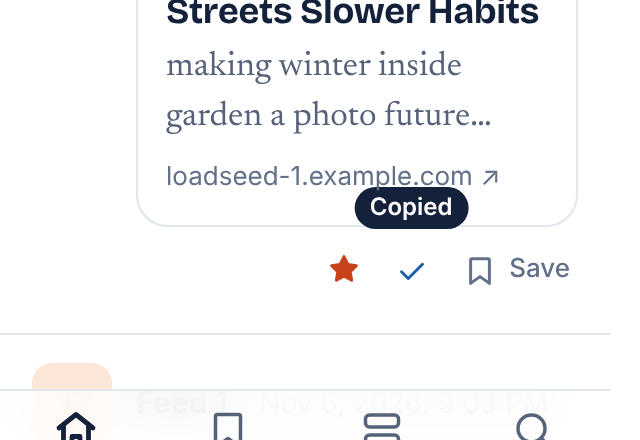
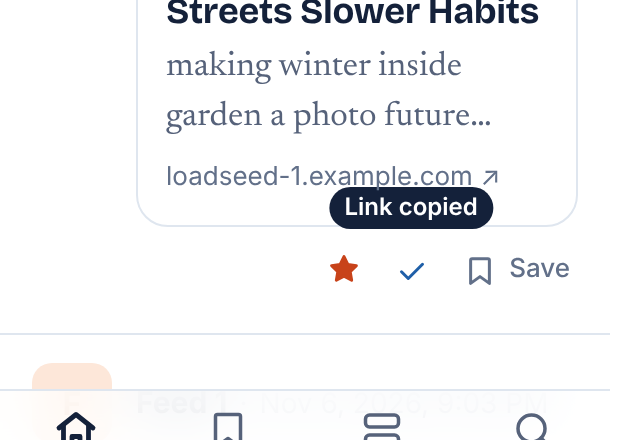
Share: "Link copied" that stays while you're on it, per the checkpoint
The owner picked the refined pill (A′) at the design checkpoint, over
status text beside the row (it lands on "Also in" on phones) and the
button turning into a labelled "Copied" (it shoves Star aside and
squeezes "Also in" at 320 px).

- The label says "Link copied", since the button says Share.
- A success stays 2 s, longer while a mouse is over the button or it
  has keyboard focus (until the next key); a touch press never holds it,
  even on a device that can also hover. A failure stays until the next
  press or key, so it never times out before it's read (WCAG 2.2.1).
- The button only appears where a share sheet or the Clipboard API can
  work.

Records the look in decisions.md, and the action buttons' touch spacing
in backlog.md. The checkpoint's media are replaced with the final
design's, and the options comparison.

Changed region(s): [[0.5, 0.4136, 0.7812, 0.5318]]

diff --git a/internal/ui/static/js/app.js b/internal/ui/static/js/app.js
@@ -100,12 +100,16 @@
   });
 
   // Share buttons: button[data-share-url] (the share-button partial) is
-  // rendered hidden, since it needs JavaScript; show it. On click, open the
-  // share sheet with data-share-title and the URL where there is one, else
-  // copy the URL, show it with showCopied and announce it, in the page's
-  // polite live region (announce, also used by live search). Takes a root so
-  // rows added to the page later can be enhanced too; the click is delegated.
+  // rendered hidden, since it needs JavaScript; show it where it can work
+  // (a share sheet or the Clipboard API, which needs a secure context). On
+  // click, open the share sheet with data-share-title and the URL where there
+  // is one, else copy the URL, show the outcome with showCopied and announce
+  // it, in the page's polite live region (announce, also used by live
+  // search). Takes a root so rows added to the page later can be enhanced
+  // too; the click is delegated.
+  const canShare = Boolean(navigator.share || navigator.clipboard?.writeText);
   const enhanceShare = (root) => {
+    if (!canShare) return;
     for (const b of root.querySelectorAll("button[data-share-url]")) b.hidden = false;
   };
   enhanceShare(document);
@@ -121,22 +125,50 @@
     liveStatus.textContent = "";
     setTimeout(() => { liveStatus.textContent = msg; }, 50);
   };
-  // showCopied shows a copy's outcome on its button for 2 seconds: the
-  // button's .copied-label (aria-hidden, since announce says it) reads
-  // "Copied" or "Couldn't copy", and data-copied (main.css swaps the icon for
-  // a check that draws itself) or data-copy-failed shows it. A second copy
-  // restarts the timer. The label keeps its text after, so it fades out
-  // with it.
+  // showCopied shows a copy's outcome on its button: its .copied-label
+  // (aria-hidden, since announce says it) reads "Link copied" or "Couldn't
+  // copy", shown by data-copied (main.css also swaps the icon for a check
+  // that draws itself) or data-copy-failed. A success shows for 2 seconds,
+  // and longer while a mouse is over the button (until it leaves) or it has
+  // keyboard focus (until the next key or focus moves); a failure stays
+  // until the reader's next press or key, so it never times out before it's
+  // read. A second copy restarts the time (the pill and check don't replay).
+  // The label keeps its text when it hides, so it fades out with it.
+  // lastPointer is the type of the latest press, since a touch leaves :hover
+  // on what it tapped, even on a device that also has a mouse.
+  let lastPointer = "";
+  document.addEventListener("pointerdown", (e) => { lastPointer = e.pointerType; }, { capture: true });
   const showCopied = (button, ok) => {
+    button.hideCopied?.();
     const label = button.querySelector(".copied-label");
-    if (label) label.textContent = ok ? "Copied" : "Couldn't copy";
-    delete button.dataset.copied;
-    delete button.dataset.copyFailed;
+    if (label) label.textContent = ok ? "Link copied" : "Couldn't copy";
     button.dataset[ok ? "copied" : "copyFailed"] = "";
-    clearTimeout(button.copiedTimer);
-    button.copiedTimer = setTimeout(() => {
+    const done = new AbortController();
+    const { signal } = done;
+    let timer;
+    const hide = () => {
+      clearTimeout(timer);
+      done.abort();
       delete button.dataset.copied;
       delete button.dataset.copyFailed;
+      delete button.hideCopied;
+    };
+    button.hideCopied = hide;
+    if (!ok) {
+      for (const type of ["pointerdown", "keydown"]) document.addEventListener(type, hide, { signal, capture: true });
+      return;
+    }
+    const hovered = () => lastPointer === "mouse" && button.matches(":hover");
+    const focused = () => button.matches(":focus-visible");
+    timer = setTimeout(() => {
+      if (hovered()) {
+        button.addEventListener("pointerleave", hide, { signal });
+      } else if (focused()) {
+        button.addEventListener("blur", hide, { signal });
+        document.addEventListener("keydown", hide, { signal, capture: true });
+      } else {
+        hide();
+      }
     }, 2000);
   };
   document.addEventListener("click", async (e) => {

diff --git a/docs/decisions.md b/docs/decisions.md
@@ -379,6 +379,7 @@ Planned in #395 (issue #396).
   Articles without a usable URL have no Share button.
 - **The system share sheet where there is one, else copy the link** (the link alone, so it pastes cleanly).
 - **It needs JavaScript, so without it there's no button**, rather than a button that does nothing; "Read on" and the browser's own share remain.
+  For the same reason a browser with neither a share sheet nor the Clipboard API (which needs a secure context) gets no button either (#511).
 - **An icon-only button between Star and Save**, as "Saved articles" planned.
 - **Nothing about sharing is recorded**: no counts, no request to the server.
 
@@ -685,6 +686,11 @@ Each piece's look (its timing, curve and effect) is recorded here once the owner
   Once a `204` turns Star on, the filled star scales from 0.4 on `--ease-spring` over `--duration-flourish` (to about 1.1, then 1), with a burst of five dots in `--brand-strong` at its points that travel 4 px outward, fading and shrinking, over 400 ms on `--ease-out` from 60 ms in.
   Turning Save on drops the bookmark 3 px into place over `--duration-base` on `--ease-out`, with no overshoot or burst, since saving is frequent.
   Turning either off doesn't animate, so only the reader's own change is marked.
+- **Share's copy feedback** (#511; the owner's pick at its design checkpoint, #533, from four options): where there's no share sheet, a pill in the inverse colors appears 6 px above the button, over whatever is there, so nothing in the row moves, and on success the check draws itself in place of the share icon.
+  It says "Link copied", not "Copied", since the button says Share and the words say what it did; a failure says "Couldn't copy" and keeps the share icon.
+  It fades in and rises 4 px over `--duration-base` on `--ease-out` and fades out over `--duration-quick` on `--ease-in`, and under reduced motion only fades; it has no arrow, so it reads as the button answering rather than a hover tooltip.
+  A success stays 2 s, and longer while a mouse is over the button or it has keyboard focus (until the next key); a failure stays until the reader's next press or key, since a message that times out before it's read fails WCAG 2.2.1 (why toasts aren't taken, below).
+  Not taken: status text at the row's open end (on phones it lands on "Also in", and it left the screen on the article page), and the button turning into a labelled, tinted "Copied" (it widens about 60 px, so Star jumps aside and at 320 px "Also in" is squeezed to a word a line).
 - **Page to page** (#513): following a link or a form post that redirects crossfades into the next page with the browser's own cross-document view transition, over `--duration-quick` on `--ease-out`.
   The browser's crossfade blends the two pages, so whatever is the same on both (the nav, the head's rule, card frames) holds still and only what differs fades; separate fade-out and fade-in animations, as first planned, left both pages half visible for about 70 ms, putting text on text and dimming the parts that don't change.
   Nothing else has a `view-transition-name` (the tab underline does, #521, below): a named element is drawn from a snapshot during the transition, and the phone tab bar's frosted glass doesn't match its snapshot, so it jumped at the start and end; without names the current section's highlight crossfades with the page instead of switching at once.

diff --git a/docs/features.md b/docs/features.md
@@ -384,7 +384,9 @@ Stars are private, with no counts; starred-only timelines list them (see "Timeli
 **Share.** Between Star and Save, an icon-only Share button (the `share-button` partial) carries the article's `CanonicalURL` and `DisplayTitle`; an article without a canonical URL has none.
 It's rendered `hidden` and "Share buttons" in `app.js` shows it, so it never appears without JavaScript.
 A click opens the system share sheet (`navigator.share`) where there is one, else copies the link and announces "Link copied" in a polite live region.
-Without a share sheet, `showCopied` in `app.js` also shows the outcome on the button for 2 seconds: a "Copied" (or "Couldn't copy") pill above it, `aria-hidden` so it isn't read on top of the announcement ("Couldn't copy the link" on a failure), and on success a check that draws itself in place of the share icon.
+When it copies, `showCopied` in `app.js` also shows the outcome in a label above the button: a success for 2 seconds (longer while a mouse is over it or it has keyboard focus), with a check that draws itself in place of the share icon, and a failure until the reader's next press or key.
+The label is `aria-hidden`, so it isn't read on top of the announcement.
+A browser that can neither share nor copy never shows the button.
 It never talks to the server: nothing about a share is recorded.
 
 **Saved page** (`/saved`). Modelled on the timeline: `ListSaved` returns the user's saves newest first, paged by `(saved_at, article_id)` (served by `saves_user_saved_at_idx`), and left-joins the user's subscriptions so a named feed shows its name.

diff --git a/docs/error-states.md b/docs/error-states.md
@@ -231,7 +231,7 @@ Every error page is the same `.solo` panel with a heading, a sentence and "Go to
 | P7 Unknown or malformed article | `/articles/{uuid}`, `/articles/abc` | 404 (H2) | As H2 | Home only | ok |
 | P8 Read ping fails | `curl` a post to `/articles/{uuid}/read` | 404, unseen | None | n/a | ok (silent by design) |
 | P9 Save or Star fails | A post for `/articles/{uuid}/save`; with JavaScript, a click on a row whose article was deleted (anything but a 204 submits the form normally) | 404 (H2) | As H2 | Home only | ok |
-| P10 Share can't copy the link | Where there's no share sheet, deny clipboard permission (in Playwright, don't grant `clipboard-write`) and press Share | Any page with Share, above the button for 2 s; the share icon stays | "Couldn't copy" (visible, hidden from assistive technology); "Couldn't copy the link" announced | Yes: copy the link from the article page's "Read on" link | ok |
+| P10 Share can't copy the link | Where there's no share sheet (or it fails), deny clipboard permission (in Playwright, don't grant `clipboard-write`) and press Share | Any page with Share, above the button until the next press or key; the share icon stays | "Couldn't copy" (visible, hidden from assistive technology); "Couldn't copy the link" announced | Yes: copy the link from the article page's "Read on" link | ok |
 
 ## Timelines
 

diff --git a/docs/backlog.md b/docs/backlog.md
@@ -355,6 +355,7 @@ The plan, and why, is under "Mobile" in decisions.md; installing the web app is 
   `.btn-sm` (Edit, Unsubscribe, Subscribe, Refresh) is 35 px tall on touch screens too, under the 44 px usually recommended; nothing in `main.css` enlarges it for `(pointer: coarse)` (found in #431).
   Making it 44 px there changes the height of every small button, so decide it with the phone review pass.
   Plain buttons (Save, Log out, the Settings rows' "Log them out" and "Turn on") are 41 px, a little under too (#446).
+  The article actions' icon buttons (Star, Share) are 30 px with a 4 px gap, enough for WCAG 2.5.8 but close for a thumb; a wider gap under `(pointer: coarse)` would keep the tight group on desktop (found in #511).
 - [ ] **Install hint.**
   If testers don't find the browser's install, a short "Add Paper Round to your home screen" note in Settings with the steps for iOS and Android.
   Never a banner or a prompt on the timeline (see "Mobile" in decisions.md).
